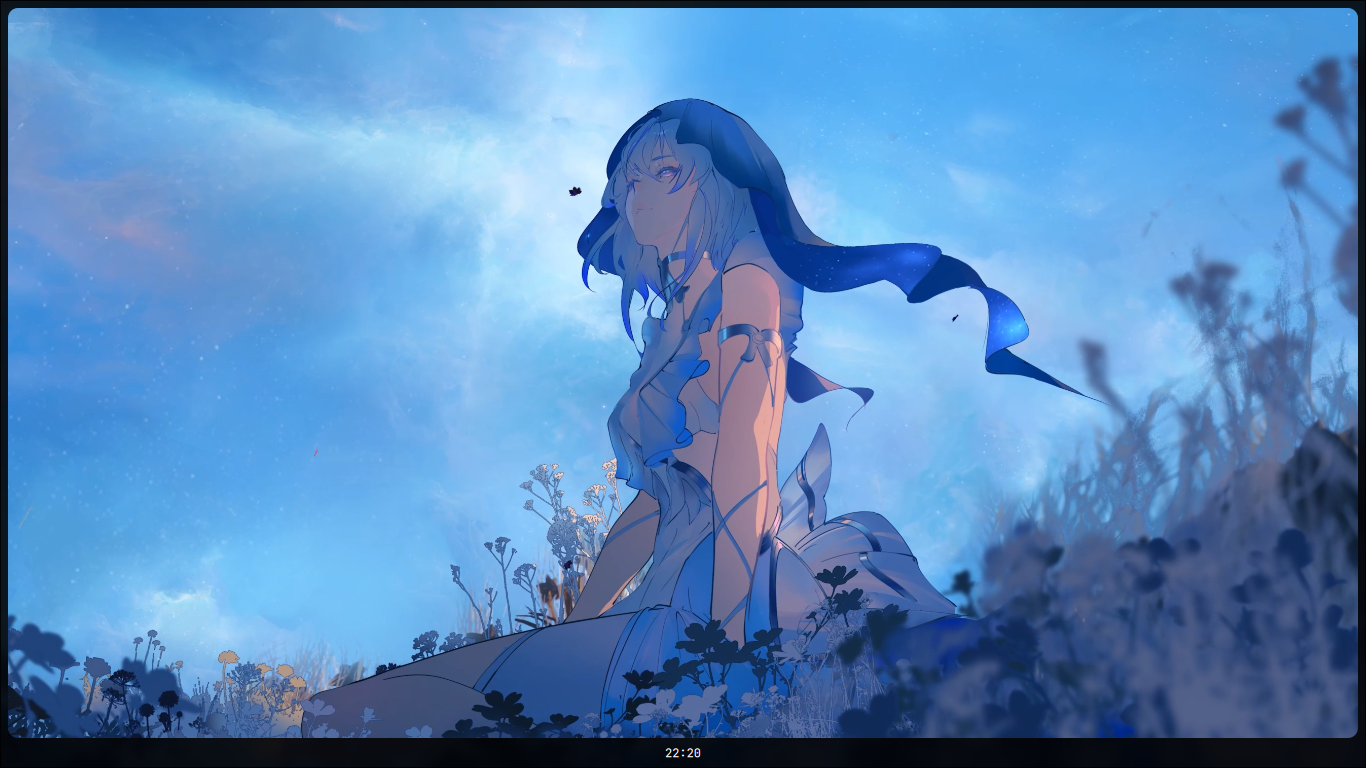
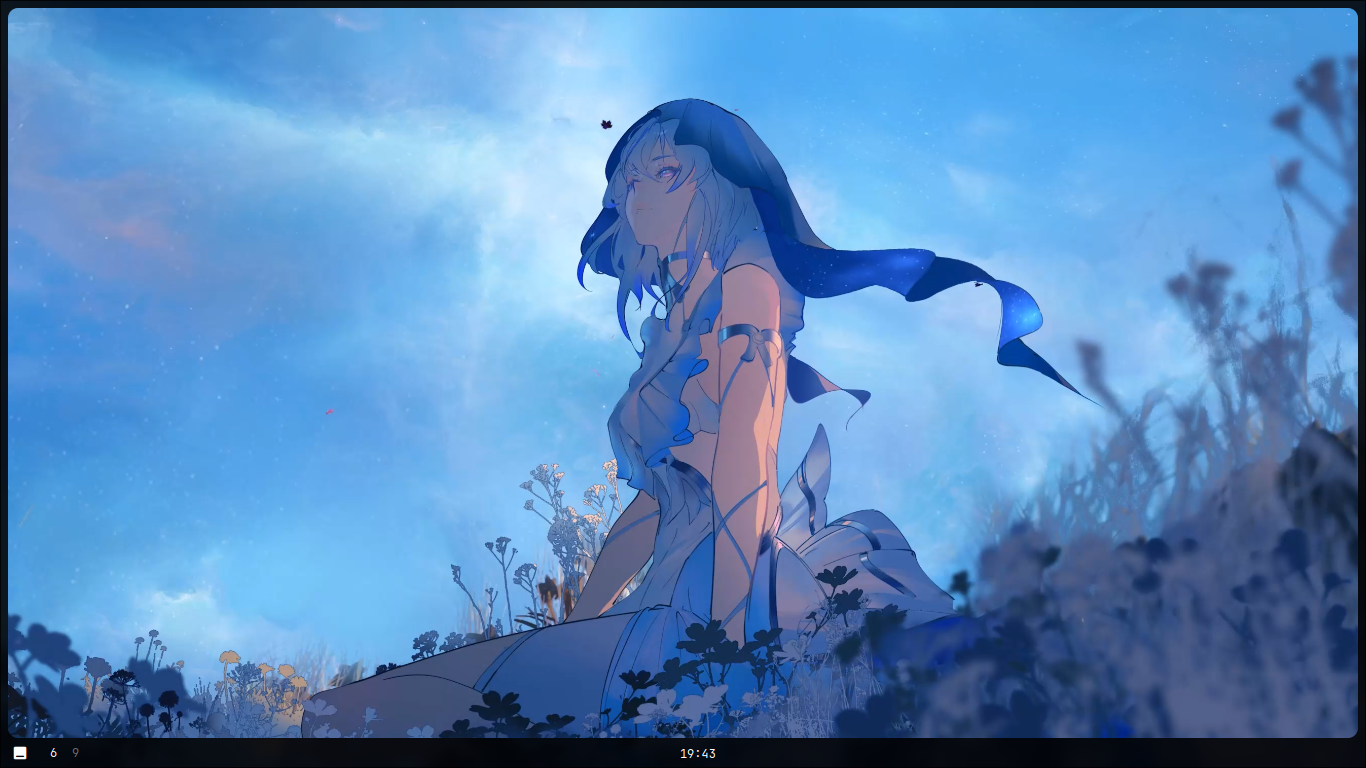
feat: add workspace widget

diff --git a/components/bar/Bar.qml b/components/bar/Bar.qml
@@ -2,7 +2,6 @@ import Quickshell
 import Quickshell.Io
 import QtQuick
 import QtQuick.Layouts
-import QtQuick.Controls
 import Qt5Compat.GraphicalEffects
 
 import qs.config
@@ -49,63 +48,46 @@ Scope {
           id: row
           anchors.fill: parent
           spacing: 6
+          Layout.leftMargin: 10
 
+          // Left widgets
           Rectangle {
+            id: leftbarBase
             color: "transparent"
-            width: leftrow.implicitWidth + 20
+            width: leftrow.implicitWidth + 10
             Layout.fillHeight: true
             Layout.alignment: Qt.AlignVCenter | Qt.AlignLeft
-            anchors.left: row.left
+            //anchors.left: row.left
 
             RowLayout {
               id: leftrow
               anchors.fill: parent
-              spacing: 6
+              spacing: 20
 
-              Rectangle {
-                id: homeroot
-                anchors.verticalCenter: parent.verticalCenter
-                anchors.left: parent.left
-                anchors.leftMargin: Config.borderThickness
-                color: "blue"
-                width: homeicon.implicitWidth + 5
-                height: Config.barHeight / 1.5 
+              HomeButton {}
 
-                Icon {
-                  id: homeicon
-                  icon: "toast" 
-                  fill: 1
-                  grad: 0
-                  font.pixelSize: 18
-                  anchors.centerIn: parent
-                  color: "white"
-                }
-
-                MouseArea {
-                  acceptedButtons: Qt.LeftButton | Qt.RightButton
-                  anchors.fill: parent
-                  cursorShape: Qt.PointingHandCursor
-                  onClicked: {
-                    console.log("Icon clicked!")
-                  }
-                }
-              }  
-
-              Rectangle {
-                id: workspacesroot
-                color: "red"
-                height: Config.barHeight / 1.5
-                width: 20
-              }
+              Workspaces {}
             }
+          }
+
+          // Center widgets
+          ClockWidget {
+           // Layout.alignment: Qt.AlignCenter
+            anchors.centerIn: parent
+          }
+
+          // Right widgets
+          Rectangle {
+            id: rightbarBase
+            color: "transparent"
+            width: leftrow.implicitWidth + 20
+            Layout.fillHeight: true
+            Layout.alignment: Qt.AlignVCenter | Qt.AlignRight
+            //anchors.right: row.right
+
           }
         }
       }
-
-      ClockWidget {
-        anchors.centerIn: parent
-      }
-
     }
   }
 }

diff --git a/components/bar/Workspaces.qml b/components/bar/Workspaces.qml
@@ -1,0 +1,63 @@
+import Quickshell
+import Quickshell.Hyprland
+import Quickshell.Io
+import QtQuick
+import QtQuick.Layouts
+
+import qs.config
+import qs.components.common
+
+Rectangle {
+  id: workspacesroot
+  color: "transparent"
+  height: Config.barHeight / 1.5
+  width: workspacesrow.implicitWidth 
+  
+  RowLayout {
+    id: workspacesrow
+    anchors.fill: parent
+    spacing: 4
+
+    Repeater {
+      model: Hyprland.workspaces
+
+      delegate: Rectangle {
+        id: workspaceItem
+        width: workspaceText.width + 10
+        height: workspacesroot.height
+        color: "transparent"
+
+        StyledText {
+          id: workspaceText
+          text: modelData.id
+          anchors.centerIn: parent
+          color: modelData.active ? "white" : Qt.alpha("#FFFFFF", 0.420)
+        }
+
+        MouseArea {
+          acceptedButtons: Qt.LeftButton | Qt.RightButton
+          anchors.fill: parent
+          cursorShape: Qt.PointingHandCursor
+          onClicked: modelData.activate()
+          z: 1
+        }
+      }
+    }
+
+    MouseArea {
+      anchors.fill: parent
+      cursorShape: Qt.PointingHandCursor
+      acceptedButtons: Qt.NoButton
+      scrollGestureEnabled : bool
+      z: 0
+      // todo: fix the scroll sensitivity for trackpad or disable it
+      onWheel: {
+        if (wheel.angleDelta.y > 0) {
+          Quickshell.execDetached(["hyprctl", "dispatch", "workspace", "e+1"])
+        } else if (wheel.angleDelta.y < 0) {
+          Quickshell.execDetached(["hyprctl", "dispatch", "workspace", "e-1"])
+        }
+      }
+    }
+  }
+}

diff --git a/components/common/StyledText.qml b/components/common/StyledText.qml
@@ -1,18 +1,18 @@
 import QtQuick
 
 Text {
-    id: root
-    property alias fontSize: root.font.pixelSize
-    property alias fontWeight: root.font.weight
-    property alias textColor: root.color
-    property alias horizontalAlignment: root.horizontalAlignment
-    property alias verticalAlignment: root.verticalAlignment
-
-    font.family: "JetBrainsMono Nerd Font"
-    fontSize: 12
-    fontWeight: Font.Normal
-    textColor: "white"
-    horizontalAlignment: Text.AlignLeft
-    verticalAlignment: Text.AlignVCenter
-    renderType: Text.NativeRendering
+  id: root
+  property alias fontSize: root.font.pixelSize
+  property alias fontWeight: root.font.weight
+  property alias textColor: root.color 
+  property alias horizontalAlignment: root.horizontalAlignment
+  property alias verticalAlignment: root.verticalAlignment
+  
+  font.family: "JetBrainsMono Nerd Font"
+  fontSize: 12
+  fontWeight: Font.Normal
+  textColor: "white"
+  horizontalAlignment: Text.AlignLeft
+  verticalAlignment: Text.AlignVCenter
+  renderType: Text.NativeRendering
 }

diff --git a/components/bar/HomeButton.qml b/components/bar/HomeButton.qml
@@ -1,0 +1,34 @@
+import Quickshell
+import QtQuick
+import QtQuick.Layouts
+import QtQuick.Controls
+
+import qs.config
+import qs.components.common
+
+Rectangle {
+  id: homeroot
+  anchors.verticalCenter: parent.verticalCenter
+  anchors.left: parent.left
+  anchors.leftMargin: Config.borderThickness
+  color: "transparent"
+  width: homeicon.implicitWidth + 5
+  height: Config.barHeight
+
+  Icon {
+    id: homeicon
+    icon: "toast" 
+    fill: 1
+    grad: 0
+    font.pixelSize: 18
+    anchors.centerIn: parent
+    color: "white"
+  }
+
+  MouseArea {
+    acceptedButtons: Qt.LeftButton | Qt.RightButton
+    anchors.fill: parent
+    cursorShape: Qt.PointingHandCursor
+    onClicked: Quickshell.execDetached(["rofi", "-show", "drun", "-theme", "~/.config/rofi/launcher.rasi"])
+  }
+}  

diff --git a/components/bar/ClockWidget.qml b/components/bar/ClockWidget.qml
@@ -1,6 +1,26 @@
 import QtQuick
-import qs.components.common
 
-StyledText {
-  text: Time.time
+import qs.components.common
+import qs.config
+
+Rectangle {
+  id: clockroot
+  anchors.verticalCenter: parent.verticalCenter
+  width: clock.implicitWidth + 5
+  height: Config.barHeight
+  color: "transparent" 
+
+  StyledText {
+    id: clock
+    text: Time.time
+  }
+
+  MouseArea {
+    acceptedButtons: Qt.LeftButton | Qt.RightButton
+    anchors.fill: parent
+    cursorShape: Qt.PointingHandCursor
+    onClicked: {
+      console.log("Clock clicked!")
+    }
+  }
 }

diff --git a/README.md b/README.md
@@ -1,6 +1,6 @@
 ![preview](./.github/preview.png)
 
-<samp> for now </samp>
+<samp> so far </samp>
 
 #### tasks (todo)
 - [ ] finish the simple bar
